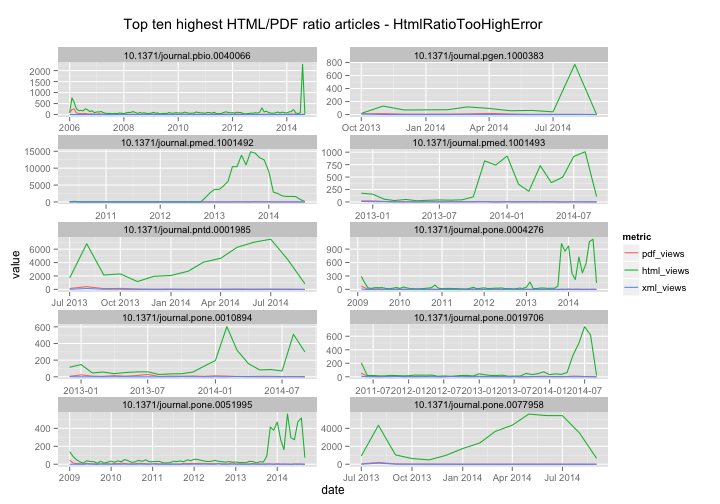
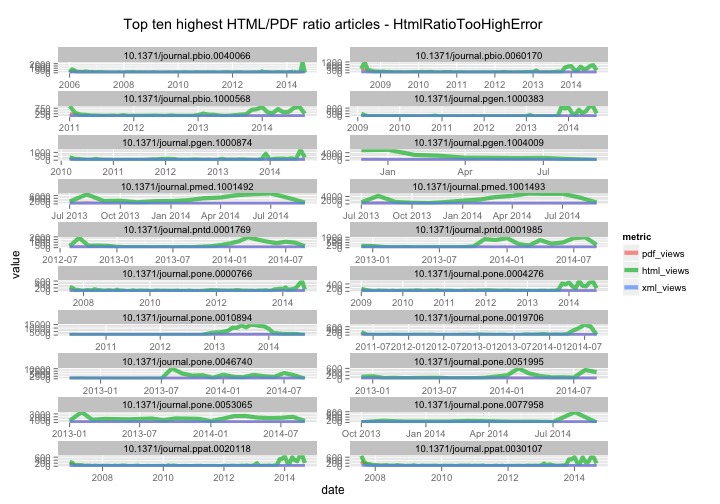
updated script on outliers workflow

diff --git a/alerts/outliers_workflow.md b/alerts/outliers_workflow.md
@@ -36,43 +36,57 @@ Get data
 ```
 
 ```
-## Source: local data frame [192 x 5]
+## Source: local data frame [156 x 5]
 ## 
 ##          id                      article    val          create_date
 ## 1  11099071 10.1371/journal.pgen.1000383 1121.0 2014-09-02T08:04:24Z
 ## 2  11099175 10.1371/journal.pntd.0001985 1008.0 2014-09-02T08:04:24Z
 ## 3  11099195 10.1371/journal.pone.0077958  772.0 2014-09-02T08:04:24Z
 ## 4  11098993 10.1371/journal.pone.0010894  732.0 2014-09-02T08:04:23Z
-## 5  11099155 10.1371/journal.pmed.1001493  696.8 2014-09-02T08:04:24Z
-## 6  11099095 10.1371/journal.pone.0019706  616.0 2014-09-02T08:04:24Z
-## 7  11099153 10.1371/journal.pmed.1001492  592.0 2014-09-02T08:04:24Z
-## 8  11099233 10.1371/journal.pone.0004276  516.0 2014-09-02T08:04:24Z
-## 9  11099191 10.1371/journal.pone.0051995  510.0 2014-09-02T08:04:24Z
-## 10 11098995 10.1371/journal.pbio.0040066  456.8 2014-09-02T08:04:23Z
+## 5  11099095 10.1371/journal.pone.0019706  616.0 2014-09-02T08:04:24Z
+## 6  11099233 10.1371/journal.pone.0004276  516.0 2014-09-02T08:04:24Z
+## 7  11099191 10.1371/journal.pone.0051995  510.0 2014-09-02T08:04:24Z
+## 8  11098995 10.1371/journal.pbio.0040066  456.8 2014-09-02T08:04:23Z
+## 9  11099005 10.1371/journal.pbio.0060170  418.5 2014-09-02T08:04:23Z
+## 10 11099155 10.1371/journal.pmed.1001493  398.5 2014-09-02T08:04:24Z
 ## ..      ...                          ...    ...                  ...
 ## Variables not shown: source (chr)
 ```
 
-Extract top 10, get DOIs
+Extract top N articles, get DOIs
 
 
 ```r
-toinspect <- res[1:10,]
-dois <- toinspect$article
+toinspect <- res[1:20,]
+(dois <- toinspect$article)
+```
+
+```
+##  [1] "10.1371/journal.pgen.1000383" "10.1371/journal.pntd.0001985"
+##  [3] "10.1371/journal.pone.0077958" "10.1371/journal.pone.0010894"
+##  [5] "10.1371/journal.pone.0019706" "10.1371/journal.pone.0004276"
+##  [7] "10.1371/journal.pone.0051995" "10.1371/journal.pbio.0040066"
+##  [9] "10.1371/journal.pbio.0060170" "10.1371/journal.pmed.1001493"
+## [11] "10.1371/journal.pone.0046740" "10.1371/journal.ppat.0020118"
+## [13] "10.1371/journal.pgen.1000874" "10.1371/journal.pone.0053065"
+## [15] "10.1371/journal.pmed.1001492" "10.1371/journal.pgen.1004009"
+## [17] "10.1371/journal.pone.0000766" "10.1371/journal.pntd.0001769"
+## [19] "10.1371/journal.pbio.1000568" "10.1371/journal.ppat.0030107"
 ```
 
 Get ALM events data and merge alerts data to it
 
 
 ```r
-deets <- alm_ids(dois, info = "detail")
-details <- deets$data
+# deets <- alm_ids(dois, info = "detail")
+# details <- deets$data
 events <- alm_events(dois, source = "counter")
+# lapply(events, function(x) data.frame(article=, x$counter$event))
 foo <- function(x, y){
   tmp <- x$counter$events
   data.frame(article=y, tmp, stringsAsFactors = FALSE)
 }
-events <- Map(foo, events, dois)
+events <- Map(foo, events, names(events))
 eventsdf <- tbl_df(rbind_all(events))
 alldf <- inner_join(x=eventsdf, y=toinspect)
 ```
@@ -86,17 +100,40 @@ alldf <- alldf %>%
     mutate(date = as.Date(sprintf('%s-%s-01', year, month)))
 ```
 
-Plot data
+Plot data, top 10 DOIs
 
 
 ```r
 alldf %>%
   select(-year, -month, -id, -val, -create_date, -source) %>%
   gather(metric, value, -article, -date) %>%
+  arrange() %>%
   ggplot(aes(date, value, color=metric)) + 
-    geom_line() + 
+    geom_line(size = 2, alpha = 0.7) + 
     facet_wrap(~ article, ncol = 2, scales = "free") +
     ggtitle("Top ten highest HTML/PDF ratio articles - HtmlRatioTooHighError\n")
 ```
 
 ![plot of chunk unnamed-chunk-5](figure/unnamed-chunk-5.png) 
+
+Dig in to particular DOIs. This is rather free-form, depends on the metric of interest.
+
+
+```r
+doi1 <- '10.1371/journal.pbio.0040066'
+alm_events(doi1, source = "facebook")
+alm_ids(doi1, info = "detail")
+```
+
+Detect spikes
+
+
+```r
+'....'
+```
+
+```
+## [1] "...."
+```
+
+> based on the above work, identify which articles are deserving of further inspection/flagging - perhaps need to look at log files for IP addresses, etc.
